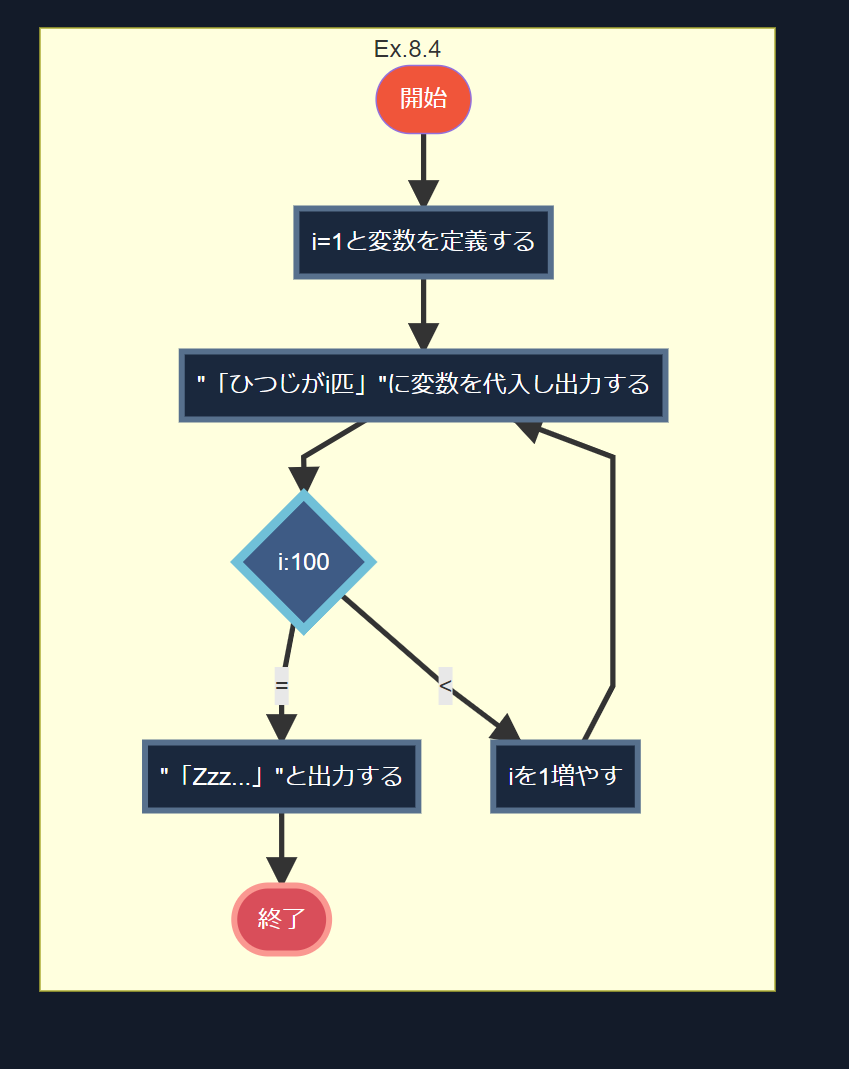
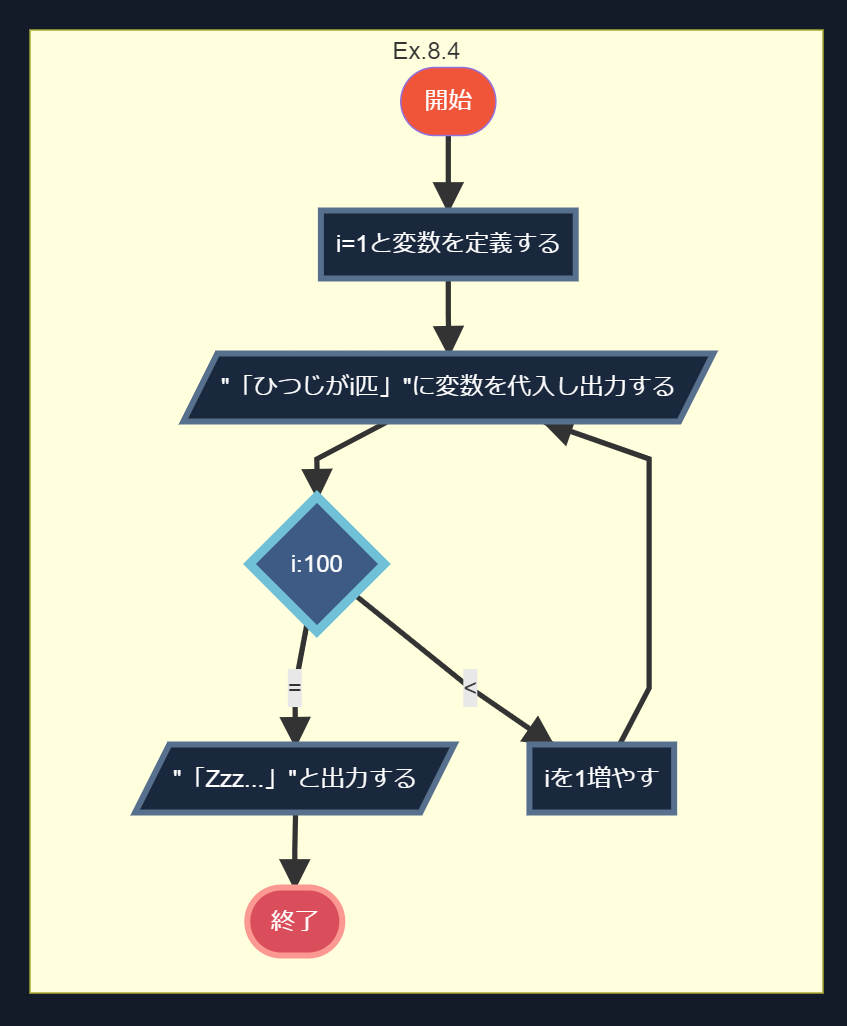
Minor Adjustments in 15th assignment

Changed region(s): [[0.0307, 0.0, 0.9823, 0.9669]]

diff --git a/第15回/README.md b/第15回/README.md
@@ -55,12 +55,12 @@ classDef End fill:#d94e5a,stroke:#fa9891,color:white,stroke-width:4px
 graph TD
     subgraph Ex.8.4
     A1([開始]):::Start ==>B1[i=1と変数を定義する]
-    B1:::Operation ==> C1[&quot&#x300cひつじがi匹&#x300d&quotに変数を代入し出力する]:::Operation
+    B1:::Operation ==> C1[/&quot&#x300cひつじがi匹&#x300d&quotに変数を代入し出力する/]:::Operation
     C1 ==> C2{i:100}:::Switch
     C2 ==>| = |E1
     C2 ==>| < |D1
     D1[iを1増やす]:::Operation ==>C1
-    E1[&quot&#x300cZzz...&#x300d&quotと出力する]:::Operation ==> G1([終了]):::End
+    E1[/&quot&#x300cZzz...&#x300d&quotと出力する/]:::Operation ==> G1([終了]):::End
 	end
 classDef Start fill:#f0553a,color:white
 classDef Operation fill:#1a283d,stroke:#57708d,color:white,stroke-width:4px
@@ -74,12 +74,12 @@ classDef End fill:#d94e5a,stroke:#fa9891,color:white,stroke-width:4px
 graph TD
     subgraph Ex.8.5
     A1([開始]):::Start ==>B1[i=5と変数を定義する]
-    B1:::Operation ==> C1[&quot&#x300ci&#x300d&quotに変数を代入し出力する]:::Operation
+    B1:::Operation ==> C1[/&quot&#x300ci&#x300d&quotに変数を代入し出力する/]:::Operation
     C1 ==> C2{i:0}:::Switch
     C2 ==>| = |E1
     C2 ==>| > |D1
     D1[iを1減らす]:::Operation ==>C1
-    E1[&quot&#x300c発射&#xff01&#x300d&quotと出力する]:::Operation ==> G1([終了]):::End
+    E1[/&quot&#x300c発射&#xff01&#x300d&quotと出力する/]:::Operation ==> G1([終了]):::End
 	end
 classDef Start fill:#f0553a,color:white
 classDef Operation fill:#1a283d,stroke:#57708d,color:white,stroke-width:4px
@@ -95,7 +95,7 @@ graph TD
     subgraph Ex.8.6
     A1([開始]):::Start ==>B1[変数i=1,i1=10を定義する]:::Operation
     B1==> C1[/階乗処理ループを10回繰り返す\]:::Operation
-    C1 ==> C2[変数iにへんすi1をかける]:::Operation
+    C1 ==> C2[変数iに変数i1をかける]:::Operation
     C2 ==>D1[iを1減らす]:::Operation==>E1
     E1[\階乗処理ループ/]:::Operation ==> G1([終了]):::End
 	end
